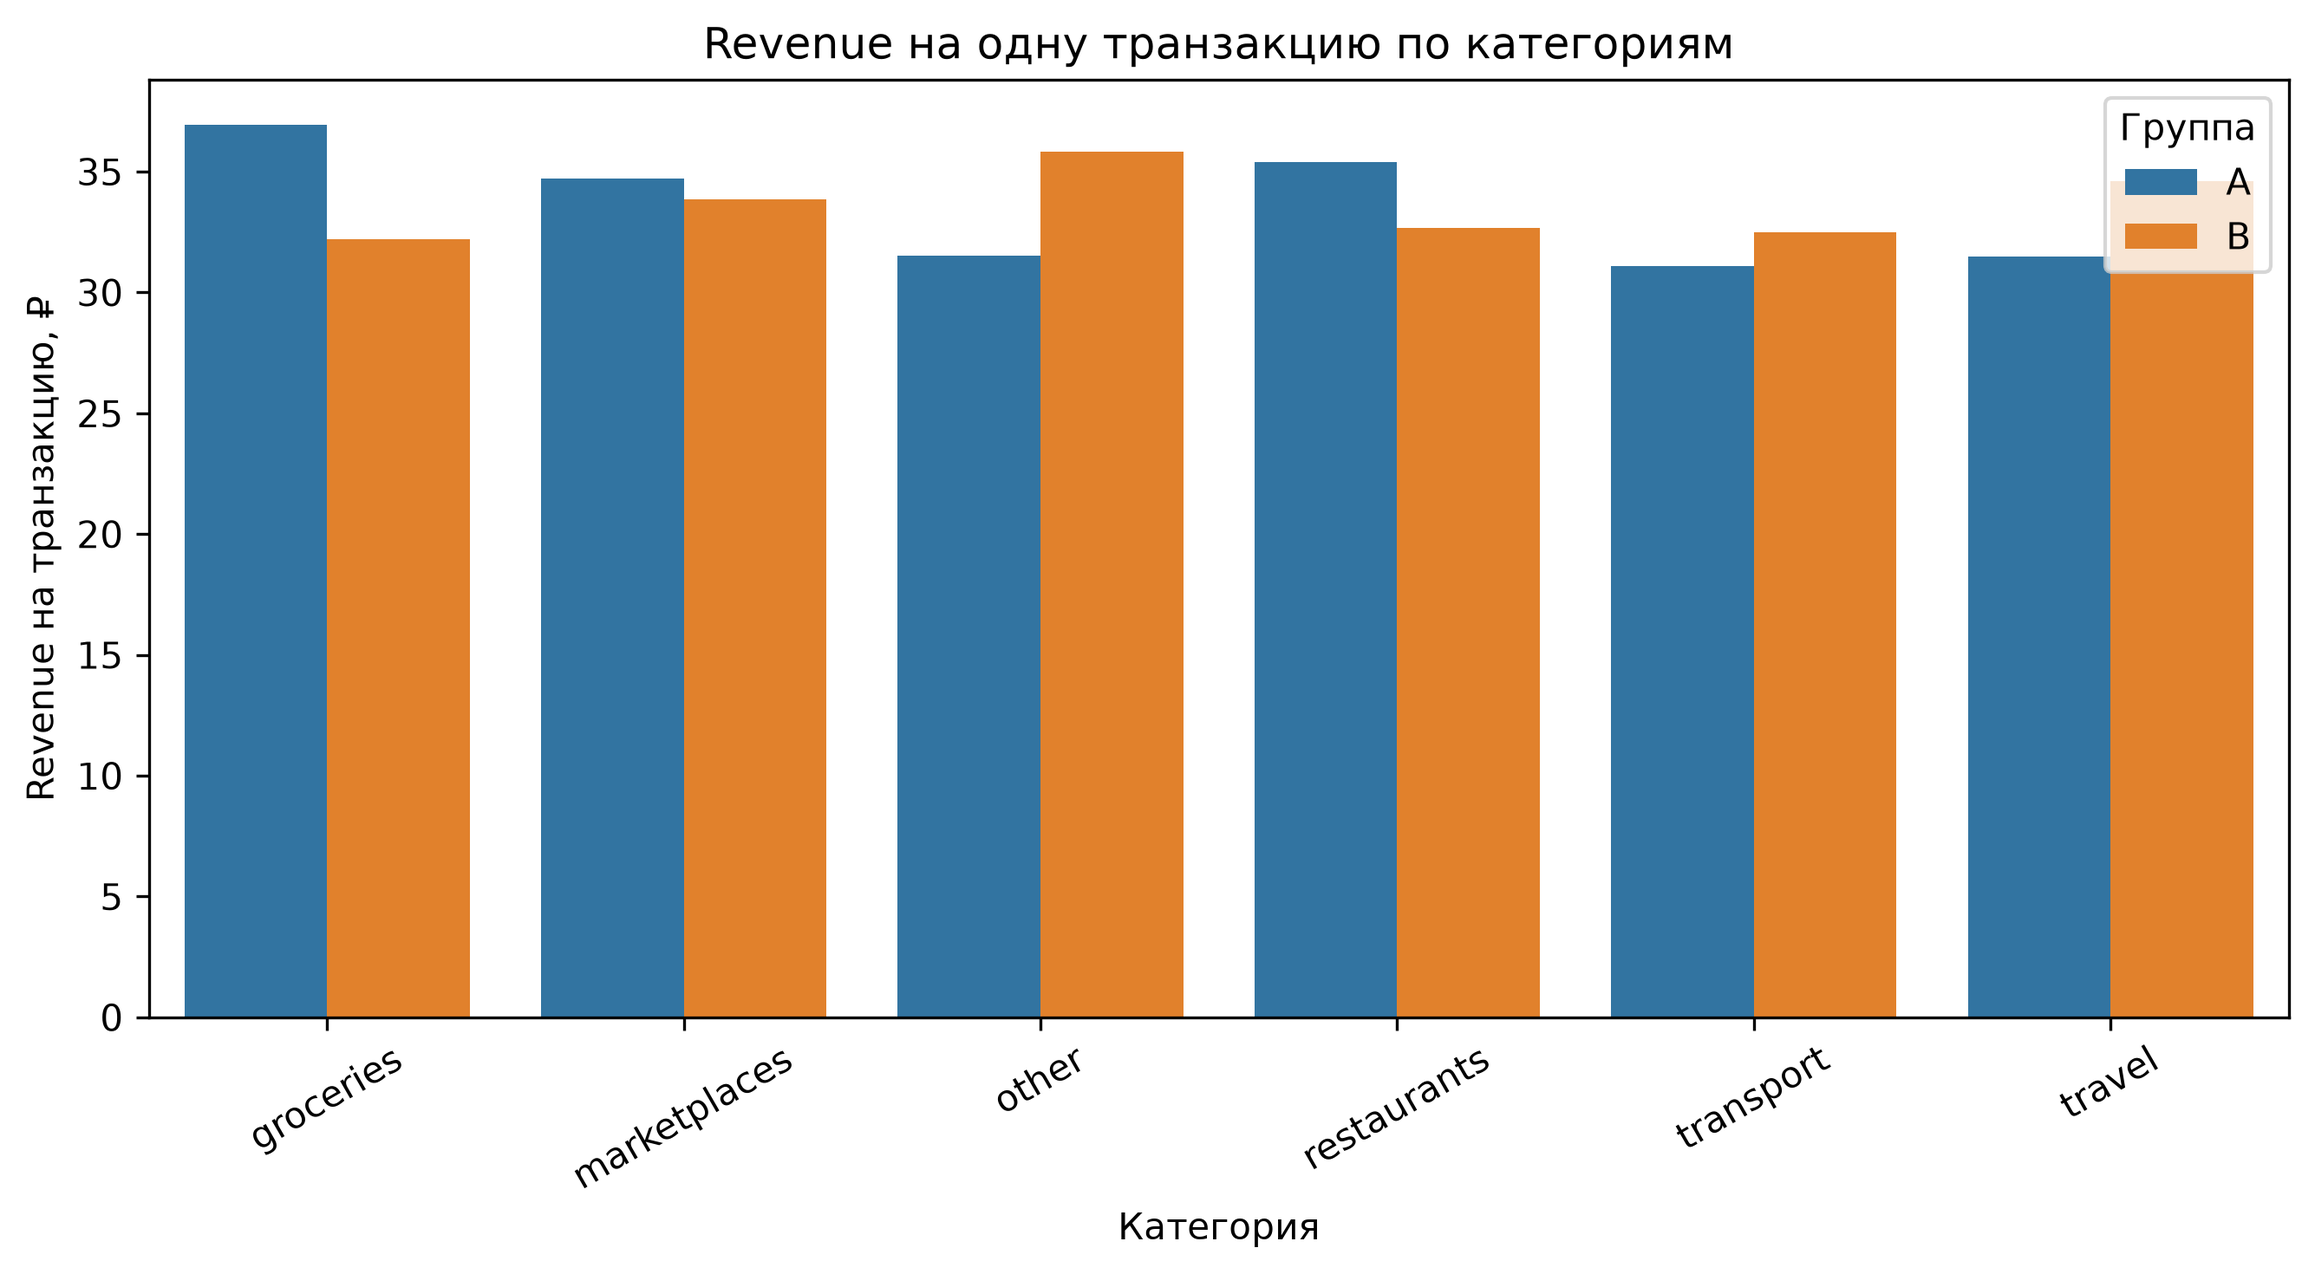
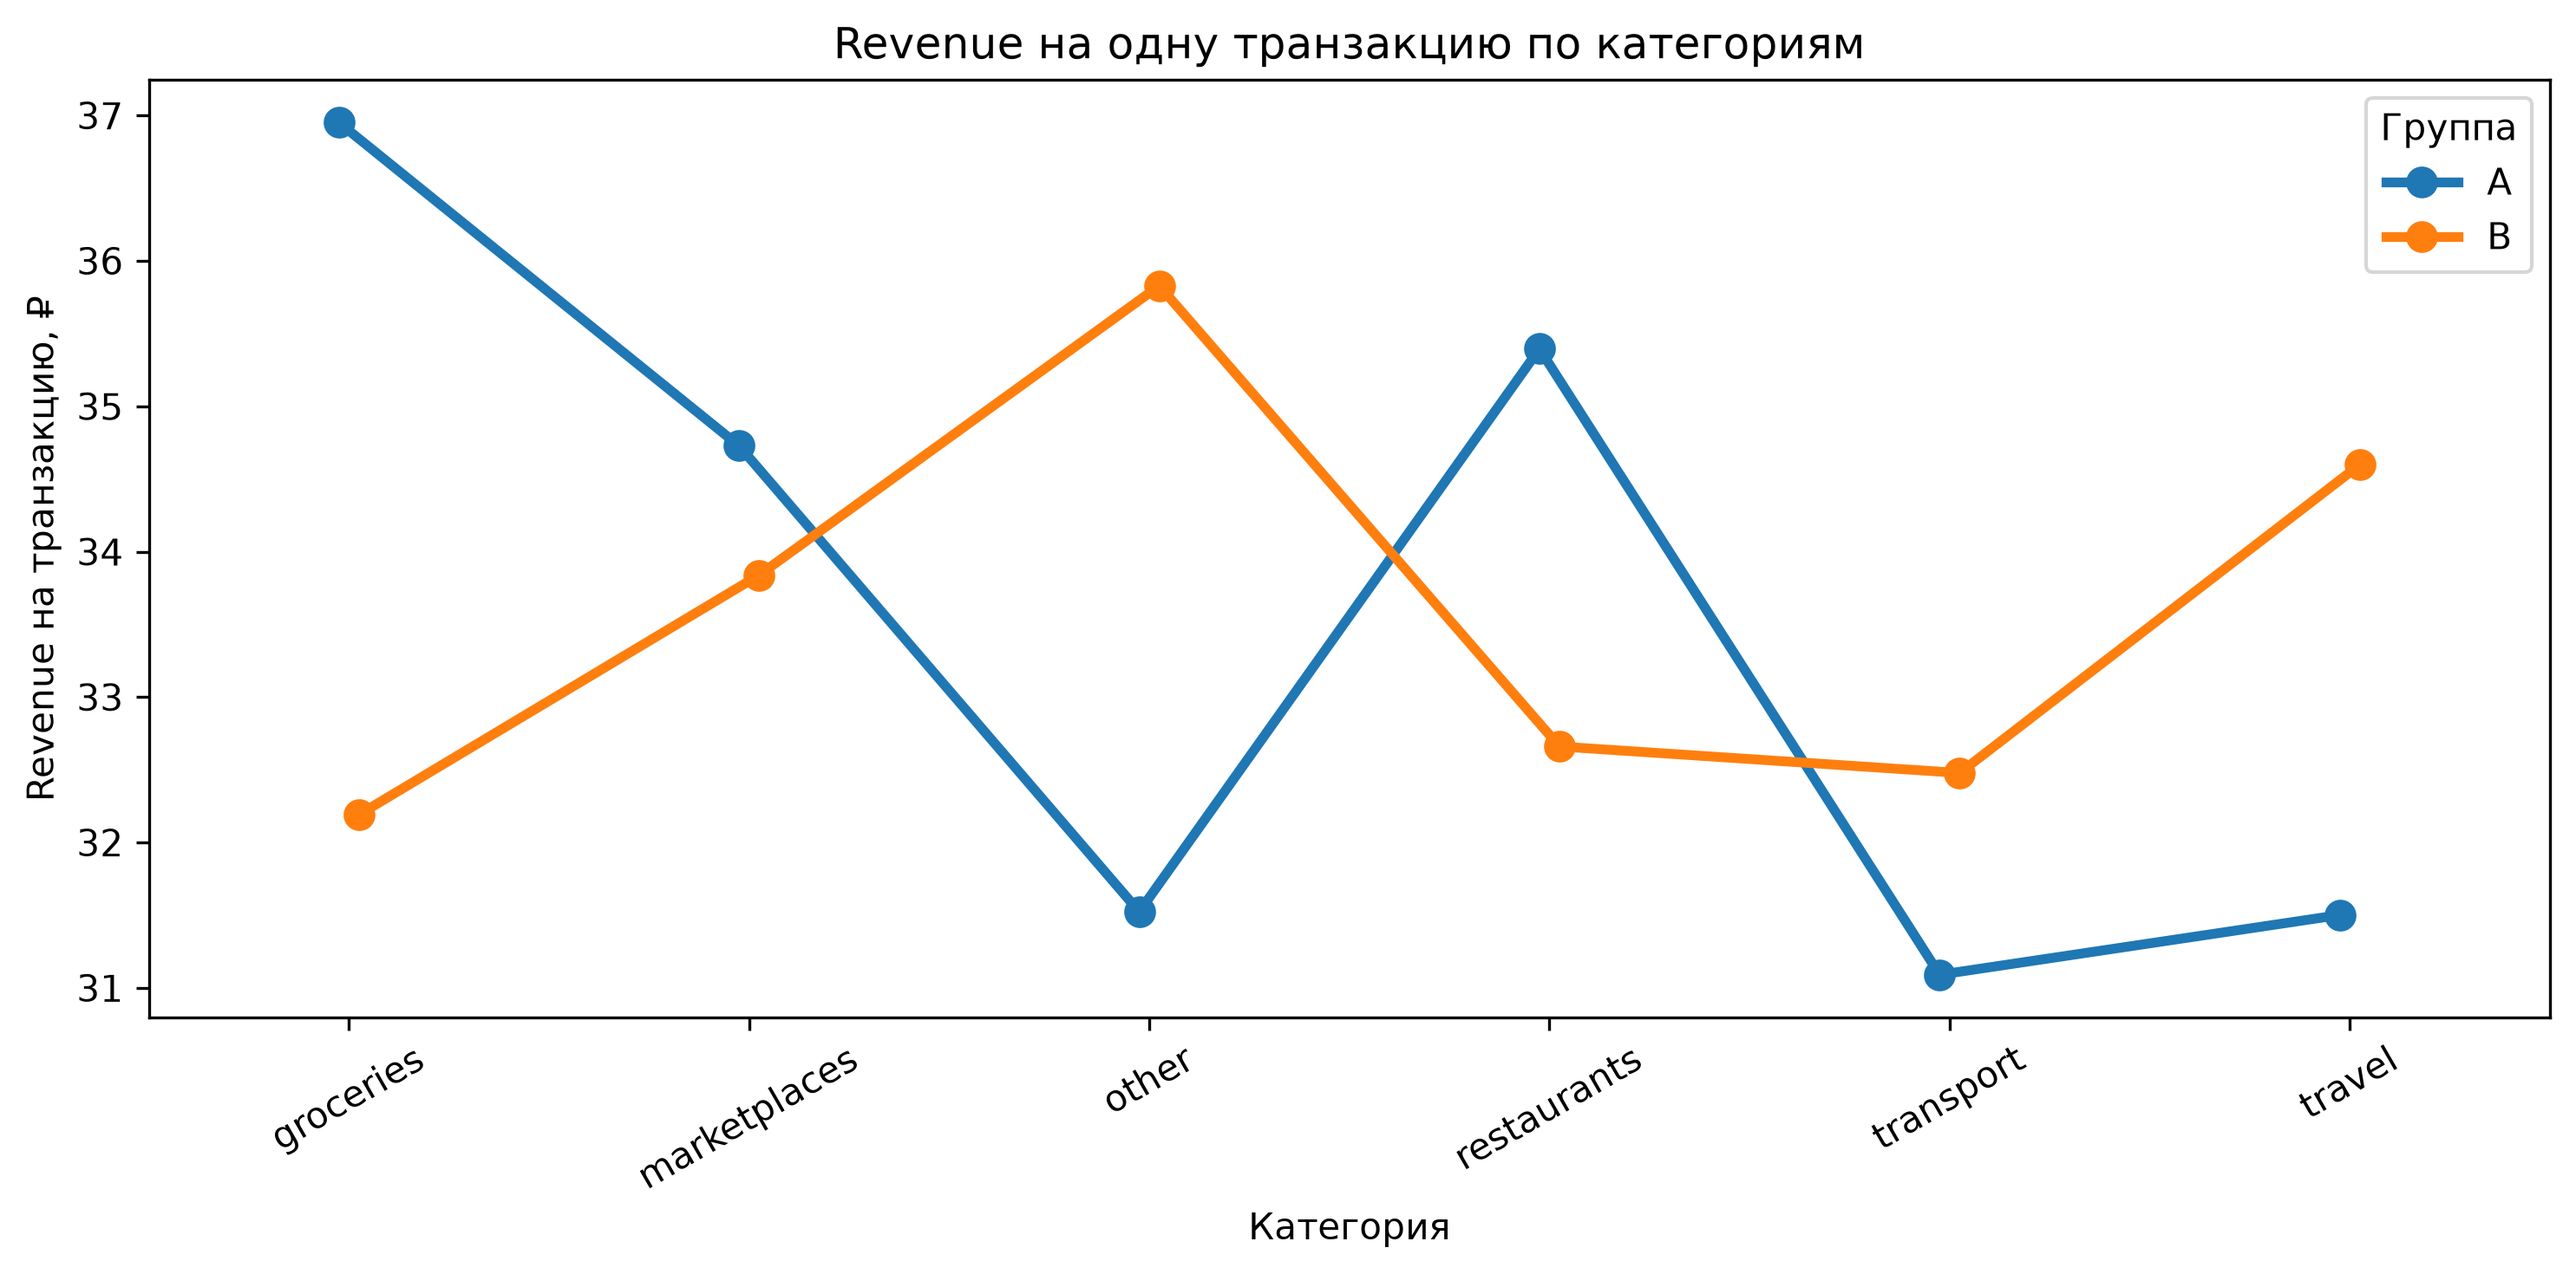
addd

diff --git a/analysis/05_categories_analysis.py b/analysis/05_categories_analysis.py
@@ -62,70 +62,77 @@ print('-' * 60)
 print(revenue_per_transaction)
 print('-' * 60)
 
+images_dir = ROOT / 'images'
+images_dir.mkdir(exist_ok = True)
 
+plt.figure(figsize=(10, 5))
 
-plt.figure(figsize=(9, 5))
 sns.barplot(
-    data = categories,
-    x = 'category',
-    y = 'total_revenue',
-    hue = 'experiment_group'
+    data=categories,
+    x='category',
+    y='total_revenue',
+    hue='experiment_group'
 )
 
 plt.xlabel('Категория')
 plt.ylabel('Total revenue, ₽')
 plt.title('Revenue по категориям: A vs B')
-plt.xticks(rotation = 30)
-plt.legend(title = 'Группа')
+plt.xticks(rotation=30)
+plt.legend(title='Группа')
+
 plt.tight_layout()
 
-
-plt.figure(figsize=(9, 5))
-sns.barplot(
-    data = categories,
-    x = 'category',
-    y = 'count_transactions',
-    hue = 'experiment_group'
+plt.savefig(
+    images_dir / 'categories_revenue.png',
+    dpi=300,
+    bbox_inches='tight'
 )
+
+plt.figure(figsize=(10, 5))
+
+sns.barplot(
+    data=categories,
+    x='category',
+    y='total_revenue',
+    hue='experiment_group'
+)
+
 plt.xlabel('Категория')
-plt.ylabel('Количество транзакций')
-plt.title('Количество транзакций по категориям: A vs B')
-plt.xticks(rotation = 30)
-plt.legend(title = 'Группа')
+plt.ylabel('Total revenue, ₽')
+plt.title('Revenue по категориям: A vs B')
+plt.xticks(rotation=30)
+plt.legend(title='Группа')
+
 plt.tight_layout()
 
-
-plt.figure(figsize=(9, 5))
-sns.barplot(
-    data = categories,
-    x = 'category',
-    y = 'revenue_per_transaction',
-    hue = 'experiment_group'
+plt.savefig(
+    images_dir / 'categories_revenue.png',
+    dpi=300,
+    bbox_inches='tight'
 )
+
+plt.figure(figsize=(10, 5))
+
+sns.pointplot(
+    data=categories,
+    x='category',
+    y='revenue_per_transaction',
+    hue='experiment_group',
+    dodge=True
+)
+
 plt.xlabel('Категория')
 plt.ylabel('Revenue на транзакцию, ₽')
 plt.title('Revenue на одну транзакцию по категориям')
-plt.xticks(rotation = 30)
-plt.legend(title = 'Группа')
+plt.xticks(rotation=30)
+plt.legend(title='Группа')
+
 plt.tight_layout()
 
-
-images_dir = ROOT / 'images'
-images_dir.mkdir(exist_ok = True)
-plt.savefig(
-    images_dir / 'categories_revenue.png',
-    dpi = 300,
-    bbox_inches = 'tight'
-)
-plt.savefig(
-    images_dir / 'categories_transactions.png',
-    dpi = 300,
-    bbox_inches = 'tight'
-)
 plt.savefig(
     images_dir / 'categories_revenue_per_transaction.png',
-    dpi = 300,
-    bbox_inches = 'tight'
+    dpi=300,
+    bbox_inches='tight'
 )
 
-plt.show()
+

diff --git a/analysis/02_balance_analysis.py b/analysis/02_balance_analysis.py
@@ -77,73 +77,62 @@ else:
     print('Статистического значимого различия не обнаружено.')
 print('-' * 60)
 
-
-city_plot = city.copy()
+images_dir = ROOT / 'images'
+images_dir.mkdir(exist_ok = True)# CITY
+plt.figure(figsize=(9, 5))
 
 sns.barplot(
-    data = city_plot,
-    x = 'city',
-    y = 'users_percent',
-    hue = 'experiment_group'
+    data=city,
+    x='city',
+    y='users_percent',
+    hue='experiment_group'
 )
+
 plt.xlabel('Город')
 plt.ylabel('Доля пользователей, %')
 plt.title('Распределение пользователей по городам')
-plt.xticks(rotation = 45)
-plt.legend(title = 'Группа')
+plt.xticks(rotation=45)
 plt.tight_layout()
 
+plt.savefig(images_dir / 'balance_city.png', dpi=300, bbox_inches='tight')
+plt.close()
 
-plt.figure()
+
+# DEVICE
+plt.figure(figsize=(8, 5))
+
 sns.barplot(
-    data = device,
-    x = 'device',
-    y = 'users_percent',
-    hue = 'experiment_group'
+    data=device,
+    x='device',
+    y='users_percent',
+    hue='experiment_group'
 )
+
 plt.xlabel('Устройство')
 plt.ylabel('Доля пользователей, %')
 plt.title('Распределение пользователей по устройствам')
-plt.legend(title = 'Группа')
 plt.tight_layout()
 
+plt.savefig(images_dir / 'balance_device.png', dpi=300, bbox_inches='tight')
+plt.close()
 
-plt.figure()
+
+# AGE
+plt.figure(figsize=(8, 5))
+
 sns.histplot(
-    data = age,
-    x = 'age',
-    hue = 'experiment_group',
-    stat = 'density',
-    common_norm = False,
-    bins = 25,
-    alpha = 0.4
+    data=age,
+    x='age',
+    hue='experiment_group',
+    stat='density',
+    common_norm=False,
+    bins=25,
+    alpha=0.4
 )
+
 plt.xlabel('Возраст')
 plt.ylabel('Плотность')
 plt.title('Распределение возраста в группах A и B')
 plt.tight_layout()
 
-
-images_dir = ROOT / 'images'
-images_dir.mkdir(exist_ok = True)
-
-plt.savefig(
-    images_dir / 'balance_city.png',
-    dpi = 300,
-    bbox_inches = 'tight'
-)
-
-plt.savefig(
-    images_dir / 'balance_device.png',
-    dpi = 300,
-    bbox_inches = 'tight'
-)
-
-plt.savefig(
-    images_dir / 'balance_age.png',
-    dpi = 300,
-    bbox_inches = 'tight'
-)
-
-
-plt.show()
+plt.savefig(images_dir / 'balance_age.png', dpi=300, bbox_inches='tight')

diff --git a/analysis/03_transaction_analysis.py b/analysis/03_transaction_analysis.py
@@ -70,24 +70,38 @@ print('-' * 60)
 
 
 # 4. Распределение количества транзакций
+images_dir = ROOT / 'images'
+images_dir.mkdir(exist_ok = True)
+
 
 plt.figure(figsize=(8, 5))
+
 sns.histplot(
-    data = user_metrics,
-    x = 'count_transactions',
-    hue = 'experiment_group',
-    discrete = True,
-    stat = 'density',
-    common_norm = False,
-    alpha = 0.4
+    data=user_metrics,
+    x='count_transactions',
+    hue='experiment_group',
+    discrete=True,
+    stat='density',
+    common_norm=False,
+    alpha=0.4
 )
+
 plt.xlabel('Количество транзакций на пользователя')
 plt.ylabel('Плотность')
-plt.title('Распределение количества транзакций в группах A и B')
+plt.title('Распределение количества транзакций')
+
 plt.tight_layout()
+
+plt.savefig(
+    images_dir / 'transactions_distribution.png',
+    dpi=300,
+    bbox_inches='tight'
+)
+
 
 
 plt.figure(figsize=(6, 5))
+
 plt.errorbar(
     x=['B - A'],
     y=[difference],
@@ -95,28 +109,22 @@ plt.errorbar(
         [difference - lower],
         [upper - difference]
     ],
-    fmt = 'o',
-    capsize = 8
+    fmt='o',
+    capsize=8
 )
-plt.axhline(y = 0, linestyle = '--')
+
+plt.axhline(
+    y=0,
+    linestyle='--'
+)
+
 plt.ylabel('Разница среднего количества транзакций')
 plt.title('Эффект версии B на количество транзакций')
+
 plt.tight_layout()
-
-
-images_dir = ROOT / 'images'
-images_dir.mkdir(exist_ok = True)
-
-plt.savefig(
-    images_dir / 'transactions_distribution.png',
-    dpi = 300,
-    bbox_inches = 'tight'
-)
 
 plt.savefig(
     images_dir / 'transactions_effect.png',
-    dpi = 300,
-    bbox_inches = 'tight'
+    dpi=300,
+    bbox_inches='tight'
 )
-
-plt.show()

diff --git a/analysis/04_revenue_analysis.py b/analysis/04_revenue_analysis.py
@@ -92,8 +92,11 @@ else:
     print('Статистически значимого различия не обнаружено.')
 print('-' * 60)
 
+images_dir = ROOT / 'images'
+images_dir.mkdir(exist_ok = True)
 
 plt.figure(figsize=(8, 5))
+
 sns.histplot(
     data=user_metrics,
     x='sum_revenue',
@@ -103,43 +106,49 @@ sns.histplot(
     common_norm=False,
     alpha=0.4
 )
+
 plt.yscale('log')
+
 plt.xlabel('Revenue на пользователя, ₽')
 plt.ylabel('Плотность')
 plt.title('Распределение revenue в группах A и B')
+
 plt.tight_layout()
 
+plt.savefig(
+    images_dir / 'revenue_distribution.png',
+    dpi=300,
+    bbox_inches='tight'
+)
+
 plt.figure(figsize=(6, 5))
+
 plt.errorbar(
-    x = ['B - A'],
-    y = [difference],
-    yerr = [
+    x=['B - A'],
+    y=[difference],
+    yerr=[
         [difference - lower],
         [upper - difference]
     ],
-    fmt = 'o',
-    capsize = 8
+    fmt='o',
+    capsize=8
 )
 
-plt.axhline(y = 0, linestyle = '--')
+plt.axhline(
+    y=0,
+    linestyle='--'
+)
+
 plt.ylabel('Разница среднего revenue, ₽')
 plt.title('Эффект версии B на revenue')
+
 plt.tight_layout()
 
-
-images_dir = ROOT / 'images'
-images_dir.mkdir(exist_ok = True)
-plt.savefig(
-    images_dir / 'revenue_distribution.png',
-    dpi = 300,
-    bbox_inches = 'tight'
-)
 plt.savefig(
     images_dir / 'revenue_effect.png',
-    dpi = 300,
-    bbox_inches = 'tight'
+    dpi=300,
+    bbox_inches='tight'
 )
 
-plt.show()
 
 
